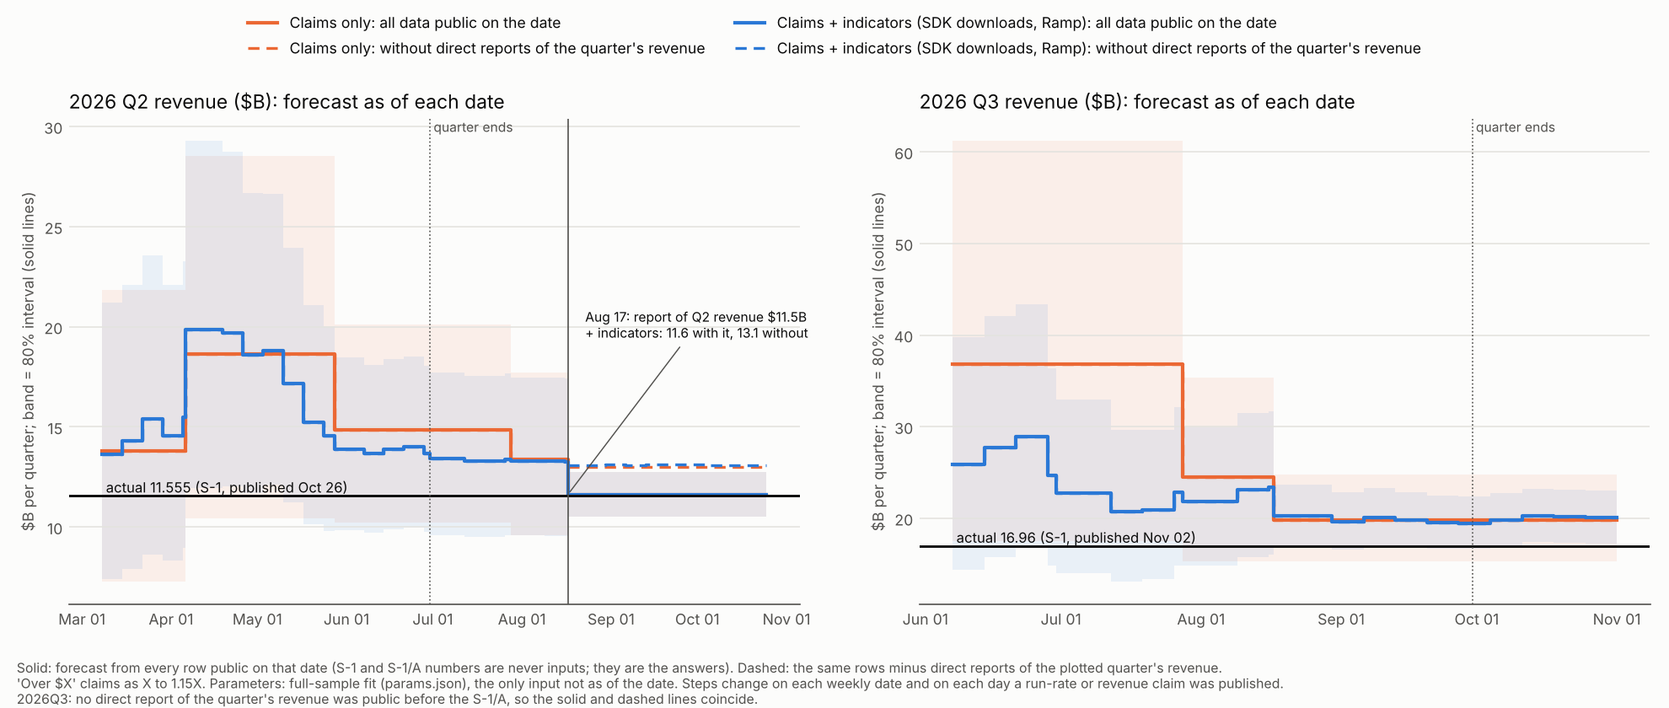
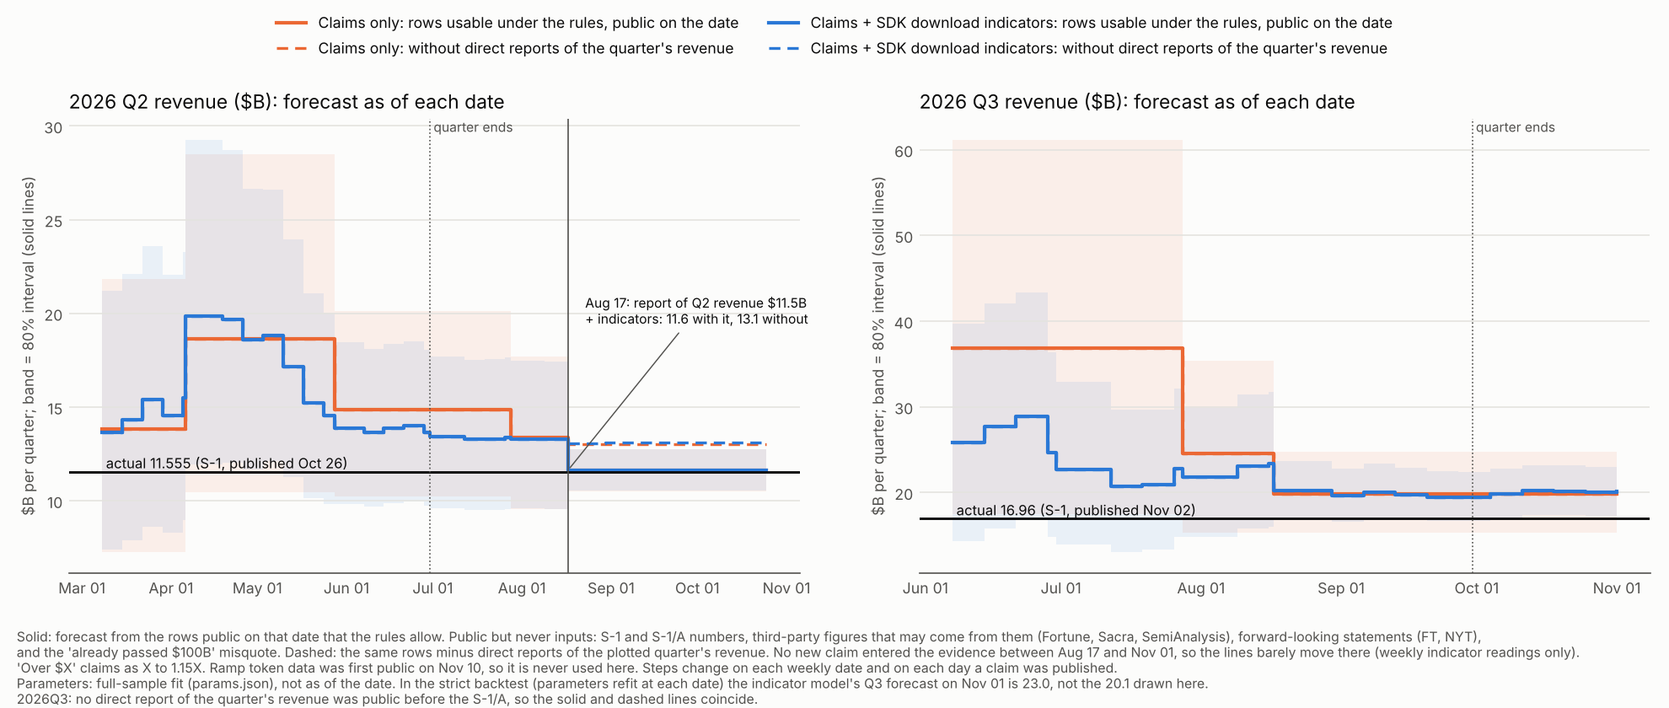
Independent review of sub-task P (verbatim), point-by-point response, corrections to P's report, chart legend and footnote fixed
Claude-Session: https://claude.ai/code/session_015VYmrmy85RRK3RPhYBL95Z

diff --git a/runrate_nowcast/plot_evolution_v2.py b/runrate_nowcast/plot_evolution_v2.py
@@ -20,7 +20,7 @@ from . import calibrate, config, data
 from .model import Model, period_key
 from .plot import BLUE, GRID, INK, INK2, ORANGE, SURFACE
 
-MODELS = [("claims", "Claims only", ORANGE), ("indicators", "Claims + indicators (SDK downloads, Ramp)", BLUE)]
+MODELS = [("claims", "Claims only", ORANGE), ("indicators", "Claims + SDK download indicators", BLUE)]
 QUARTERS = [("2026Q2", ("2026-04-01", "2026-06-30"), "2026-03-08", "2026-10-25", 11.555, "2026-10-26"),
             ("2026Q3", ("2026-07-01", "2026-09-30"), "2026-06-07", "2026-11-01", 16.96, "2026-11-02")]
 
@@ -122,15 +122,20 @@ def plot(evos: list, path: str, raw: pd.DataFrame):
         _style(ax)
     handles = []
     for key, label, color in MODELS:
-        handles.append(Line2D([], [], color=color, lw=2, label=f"{label}: all data public on the date"))
+        handles.append(Line2D([], [], color=color, lw=2, label=f"{label}: rows usable under the rules, public on the date"))
         handles.append(Line2D([], [], color=color, lw=1.6, ls=(0, (4, 2.5)),
                               label=f"{label}: without direct reports of the quarter's revenue"))
     fig.legend(handles=handles, loc="upper center", ncol=2, frameon=False, fontsize=8.5, labelcolor=INK,
                bbox_to_anchor=(0.5, 1.0))
-    foot = ["Solid: forecast from every row public on that date (S-1 and S-1/A numbers are never inputs; they are "
-            "the answers). Dashed: the same rows minus direct reports of the plotted quarter's revenue.",
-            "'Over $X' claims as X to 1.15X. Parameters: full-sample fit (params.json), the only input not as of "
-            "the date. Steps change on each weekly date and on each day a run-rate or revenue claim was published."]
+    foot = ["Solid: forecast from the rows public on that date that the rules allow. Public but never inputs: S-1 and "
+            "S-1/A numbers, third-party figures that may come from them (Fortune, Sacra, SemiAnalysis), forward-looking "
+            "statements (FT, NYT),",
+            "and the 'already passed $100B' misquote. Dashed: the same rows minus direct reports of the plotted "
+            "quarter's revenue. No new claim entered the evidence between Aug 17 and Nov 01, so the lines barely move there (weekly indicator readings only).",
+            "'Over $X' claims as X to 1.15X. Ramp token data was first public on Nov 10, so it is never used here. "
+            "Steps change on each weekly date and on each day a claim was published.",
+            "Parameters: full-sample fit (params.json), not as of the date. In the strict backtest (parameters refit "
+            "at each date) the indicator model's Q3 forecast on Nov 01 is 23.0, not the 20.1 drawn here."]
     foot += notes
     for i, t in enumerate(foot):
         fig.text(0.01, 0.006 + 0.022 * (len(foot) - 1 - i), t, fontsize=7.6, color=INK2)

diff --git a/runrate_nowcast/reviews/fable_review_2026-11-13_P_5702655.md b/runrate_nowcast/reviews/fable_review_2026-11-13_P_5702655.md
@@ -1,0 +1,254 @@
+# 子任务 P 独立审核（审核对象 5702655，对比 1ff145b）
+
+审核日期 2026-11-13。
+
+**结论先行**
+- **代码改动（三个默认关闭的开关）可以合并进 main。** 默认行为与 1ff145b 逐位一致，P1 的取数没有行级泄露，测试 54 个全过。
+- **报告结论需要修改后采信。** 主结论“P1 没有修掉 B 的高估”成立；但有一句事实错误、几处把同一份信息当成多次独立观测、两处归因说过头。
+- P1 不是一个可用的修复，合并不等于启用。
+
+**说明**
+- 分配给我的工作树停在 24d319c，不含子任务 P。我在自己的工作树里 `git checkout --detach 5702655` 后审核，没有改动任何仓库文件，没有 commit。
+- 我的脚本和日志都在 `/tmp/claude-0/-home-user-IterResearch/8dd0f9fe-3f5b-5ea2-b2a4-3686171a6c9f/scratchpad/`（`recalc.py`、`look.py`、`exp.py`、`bb.py`、`ident.py`、`evo.py`、`jobs1.log`、`pytest_isl.log`）。
+- 误差一律是 log(真实值 / 预测值)，负数表示预测偏高。
+
+---
+
+## 一、发现（按严重程度）
+
+### 严重
+
+**1. 报告 §6 的一句事实错误：“NYT 超过 1000 亿”那一行根本不在证据里**
+
+- 报告原文（`reports/indicator_slope_2026-11-13.md` 第 276–279 行）：有一条下限说法本身偏高，即 NYT 9/30 的“over $100B”，在 1.15X 规则下读作 [100, 115]；A 的高估因此是“H1 增长外推加上这条说法”。
+- 实际：`rr_2026_09_nyt100` 的 `include = 0`，备注写着 “EXCLUDED: misquote”；`fc_nyt_2026_09` 是前瞻说法，`USE_FORECASTS = False` 时也不进证据。
+- 我的核对：
+  - `data.select(vintage=2026-10-31)` 里 7 月以后的行只有三条：Funda 71、“超过 65”、Q2 初值 11.5。
+  - 把这一行从数据里删掉重跑，A 和 B 的预测逐位不变（A 10/31 为 111.966，A 9/30 为 97.694，B 10/31 为 159.031，B P1 为 150.945）。
+- 后果：A 在 10/31 预测 112（真实 81），纯粹是从 7 月中外推三个半月的结果，没有任何偏高的说法在起作用。这反而加强了“高估不只来自指标”的结论，但报告给的原因是错的。
+- 验证：已运行。
+
+**2. 一步预测的证据被重复计数；Ljung-Box 的 p 值是并列观测造成的**
+
+不用 S-1 的一组里，证据的到达情况是：
+- 2026-08-17 之后到 11-06 之前，没有任何新的说法进入证据。期间公开的 Sacra 70、SemiAnalysis 74、S-1 的全部数字、Fortune 的两条，都因 `filing` 标记被排除。
+- 11-06 才进来一条 WSJ“超过 80”。
+
+所以报告第 216–224 行那张表的 5 个数字，只对应两个信息状态：
+
+| 信息状态 | 被预测的数字 | B 原模型的 z |
+|---|---|---|
+| 说法停在 8/17 | Sacra 70（10/31）、Q3 收入（11/02）、SemiAnalysis 74（11/03） | −3.46、−2.38、−3.24 |
+| 另加 WSJ“超过 80” | 9/30 和 10/31 的 run-rate（11/10） | −3.20、−3.56 |
+
+- 10/26 的 6 个 S-1 季度数也是同一个状态，而且是对过去季度的回溯。
+- “5 月以后 15 个数字”实际只有 4–5 次独立的前瞻观测：5/27、7/27、8/16、10 月底、11/09。
+- 报告在第 192–194 行提到了 10/26 的并列，并说统计量“只作描述”。但开头的结论 2 仍然引用 Ljung-Box p 从 0.017 到 0.046，说序列相关“变弱但仍在”，也没有提 10/31 到 11/10 这一组。
+- 我把同一时点的观测合并成一个后重算：B 原模型 p = 0.30（相邻相关 0.43），P1 p = 0.35。不显著。
+- 不用 S-1 的一组里，10 月底以后“每个数字都偏高 2.0–3.6 个标准差”主要是规则造成的：模型被禁止看到任何纠正信息，谈不上“更新也纠正不了”。
+
+真正能检验“更新后偏差是否还在”的是用已公开 S-1 的一组，报告没有把它放进结论。B 的 z 值（`onestep_B_*_pub.csv`）：
+
+| 数字 | 原模型 | P1 |
+|---|---|---|
+| Sacra 70 | −3.31 | −2.81 |
+| Q3 收入 | −2.36 | −1.59 |
+| SemiAnalysis 74 | −1.06 | −0.81 |
+| 9/30 run-rate | −1.11 | −0.91 |
+| 10/31 run-rate | −1.61 | −0.89 |
+
+- 每次更新后仍然偏高，但幅度在缩小。
+- 这一组里 B 的 Ljung-Box p 是 0.67（原模型）和 0.93（P1），没有序列相关的证据。
+- 两组里，5 月以后 8 个前瞻数字，B 的原模型和 P1 都是 8 个全部偏高，方向没有例外。所以“P1 没有修掉 B 的高估”成立，只是证据强度远低于报告的写法。
+- 验证：从 CSV 重算，并读了 `data/observations.csv`。
+
+### 中等
+
+**3. “P1 在 G、R 上引入了序列相关”说过头了**
+
+- 这个说法只在期末当天时点的 13 个目标上成立：G 的相邻相关 +0.57，R 为 +0.49，n = 13 时标准误约 0.28。
+- 其他地方都看不到：
+  - 公布前一天时点：G +0.09，R −0.23。
+  - 一步预测（报告自己的表）：G P1 相邻相关 −0.06、p = 0.85；R P1 −0.02、p = 0.34。
+- 更合理的解释是 P1 让指标基本不起作用，G 和 R 退回到只用说法的 A。期末当天时点上，各模型误差与 A 的误差的相关系数：
+
+| 模型 | 原模型 | P1 |
+|---|---|---|
+| G | 0.19 | 0.81 |
+| R | 0.17 | 0.92 |
+
+- R 在 P1 下与 A 的平均绝对差只有 0.06；早期时点 R 的 β 被估到 0.15。
+- 所以 `----+++------` 是 A 本来就有的增长外推模式（A 是 `--+-+++------`），不是 P1 新造出来的。
+- G 的“3 个偏高变 10 个偏高”按个数属实，但 P1 下 13 个误差里 10 个绝对值小于 0.1，平均误差 −0.018，好几个只是 −0.01 到 −0.04 的翻号。
+- 验证：从 CSV 重算。
+
+**4. OpenCode“误差减半”来自一个目标，报告给的机制不成立**
+
+- 期末当天、不用 S-1：平均绝对误差 1.200 降到 0.667，合计减少 6.93，其中 5.99（86%）来自 `rev_2025fy` 一个目标（原模型预测 2777，P1 预测 6.97，真实 4.59）。
+- 去掉它是 0.767 对 0.688；中位数 0.381 对 0.377，没有变化。
+- 报告说改善来自“10 月学到的斜率约 +0.02/周，后期时点的过程噪声不再爆炸”。对不上：
+  - `rev_2025fy` 的时点是 2025-12-31，那时斜率是 0.010 ± 0.0115。
+  - 9/30 时两个版本的 sigma_g 都是 0.76–0.80；10/31 时两个版本都约 0.01。
+- P1 下仍有 2026 Q1 预测 82、Q2 预测 118.5。“仍不可用”这一句是对的。
+- 验证：从 CSV 重算。
+
+**5. B 的配对改善（0.012，90% 区间 0.002 到 0.021）不稳健**
+
+- 改善集中在下半年共享同一份信息的几个目标上：`rr_2026_10_s1a` −0.052，`rr_2026_09_s1a` −0.036，`rev_2026q3` −0.021。
+- 把同一时点和下半年那一组当成一个整体做 bootstrap，区间跨 0：
+  - 期末当天：(−0.022, +0.001)；
+  - 公布前一天：(−0.015, +0.008)。
+- 它还受优化起点影响（见第 6 条）。
+- “改善是真的，但很小”应改为“很小，且与 0 无法区分”。
+- 验证：已运行。
+
+**6. 参数通道：影响与 P1 的效果同量级，“各版本都受影响所以比较公平”不成立**
+
+- 通道属实：`backtest.py` 的 refit 用 `calibrate.load_params()` 的全样本值作 `fit_process_noise` 的起点，估过程噪声时指标参数也是全样本拟合值。
+- 我把起点换成 `backtest.unfitted_params()` 重跑（B，不用 S-1）：
+
+| 目标（时点） | 原模型：全样本起点 → 目录先验起点 | P1：全样本起点 → 目录先验起点 |
+|---|---|---|
+| 10/31 run-rate（公布前一天） | 119.98 → 107.03 | 111.34 → 110.86 |
+| 10/31 run-rate（期末当天） | 159.03 → 161.34 | 150.95 → 151.16 |
+| 5 月 run-rate（公布前一天） | 64.33 → 67.08 | 63.08 → 64.88 |
+
+- 原模型对起点的敏感度最大到 12%，P1 约 0.4%–3%。两者受影响的程度不同。
+- 第一行里换起点后原模型（107.0）反而比 P1（110.9）更准。报告开头举的例子“120 对 111”方向反过来了。
+- 对主结论没有影响：两种起点下 B 都大幅偏高。
+- G 的 P1 和 R 的 P1 基本不受影响（G 88.83 对 88.78，R 12.613 两次相同）。
+- 验证：已运行，`jobs1.log`。
+
+**7. 报告 §8 第 3 条（“协调者的 0.79 没有复现”）不实**
+
+- 执行者自己的 `indicator_slope_summary_2026-11-13.csv` 里，B 原模型、期末当天、不用 S-1 的 `acf1_pearson` 就是 0.789。
+- 两个数只是估计量不同：Pearson 0.789，标准估计量 0.589。
+- 验证：从 CSV 读取。
+
+**8. 新图基本如实，但还有三处会误导**
+
+属实的部分：
+- 我重跑了 7 个时点，与 CSV 一致（差小于 1e-14）。
+- 删掉每个时点之后发布的所有行，结果逐位不变。
+- 8/17 的 Q2：加指标的模型 11.63（不含直接报道 13.09），只用说法 11.61（13.02）。属实。
+
+仍会误导的部分：
+- **图例“all data public on the date”不准确。** 到 11/01 已公开但没进证据的有 10 多行：S-1 的季度数、Fortune 的 Q1 和 Q2（9/30）、Sacra 70（10/31）、FT 的“年底 100–120”、NYT 的前瞻说法。脚注只说了 S-1。
+- **参数是全样本的（脚注已写明），画出来的不是严格回测里的 B。** 图上 11/01 的 Q3 是 20.1，严格回测的 B 是 22.97，图让加指标的模型看起来更准。
+- **图例写“SDK downloads, Ramp”，但 Ramp token spend 最早 11/10 才公开**，图里从没用到。
+
+另外，Q3 一栏两个模型从 8/17 到 11/01 一直在 19.8–20.2（真实 16.96）。这是如实的，但图没有标出这 11 周里没有任何新说法进入证据。
+
+- 验证：已运行，`evo.py`。
+
+### 轻微
+
+- **“大多数时点还没有更早的真实值公开”与自己的 CSV 矛盾。** `n_corrected` 是 11/13（期末当天）和 14/15（公布前一天）。事后校正的数字本身（0.202 → 0.191，0.139 → 0.160）核对无误。
+- **P1″ 的描述自相矛盾。** 报告写“处处在 ±0.016 以内”，但 R 期末当天是 +0.034（区间 0.005 到 0.068），同一句后面又写“最多 +0.034”。
+- **“11/13 偏高”的幅度。** B 期末当天的 11 个偏高目标里，5 个绝对值小于 0.1（2025 年的 4 个和 3 月的 run-rate），其中 2025 年那几个 A 也基本同号。实质性的高估是 5 月以后的 5 个目标（−0.14 到 −0.68），后 3 个共享信息。
+- **滤波器自身新息的检查没有检出力。** 不用 S-1 时只有 10 个点，没有下半年的数字，参数还是最后一次拟合的。OC 原模型 p = 0.051，“没有低于 0.05”只是勉强成立。
+- **仓库膨胀。** 90 个 `params_*.json` 约 30 万行，建议不进 main 或压缩。
+- **基线复现测试的前提。** `forecast_interval_*_iv115_*` 由 36e45e4 提交，早于 1ff145b，前提成立。
+
+---
+
+## 二、逐项回答
+
+**1. 是否按登记执行：基本是**
+
+- `DATA_PLAN.md` 自 1ff145b 之后没有改动。
+- P1 的取值（先验标准差 0.01/周，过程噪声 0.001/周）与登记一致，实现也对：`model.py` 里每天加 斜率/7，斜率的方差每天 0.001²/7。
+- 90 个回测全部存在；每个版本的目标集相同（15 和 13 个）。
+- 单位的解读可以接受，标签建议调整：
+  - 登记把目录里的 drift（每 √天）误写成“每周”。执行者的主版本 P1′ 取 0.02/√天（约 5.3%/周），按字面的 0.02/周作为敏感性版本。
+  - 两个版本在第一次提交（5ed8c90，16:38）里就都定义了，早于任何 B 的输出（16:46）。不是看了结果再挑的。
+  - 两个版本都进了主表，结论不因选哪个而变：B 期末当天 10/13 偏高对 12/13 偏高。
+  - 严格说，字面版本才是登记的那个，主版本是解读。建议把标签对调或写成中性。字面版本没有跑用 S-1 的一组。
+- 报告没有标出的一处解读：登记写“a 的噪声沿用目录里的 drift”，实际运行中 drift 仍按时点重估。秋季 SDK 的 drift 被估到 0.012，约为目录值的 4 倍，会和斜率争着吸收超额增长，是 P1 学不动斜率的原因之一。
+- 登记本身是看过原模型结果后写的（登记里已有“85% 偏高”等数字）。P1 的超参数是否在跑之前定的，我无法从仓库验证，只能确认提交顺序没有矛盾。
+- 验证：读代码和 git 历史。
+
+**2. 默认行为不变：是**
+
+- 我自己用 `git show 1ff145b:model.py` 和 `calibrate.py` 加载旧代码对比：
+  - E、R、B、OC 四个数据框 × 两种下限规则：平滑状态、协方差、似然逐位相等。
+  - B 和 R 的 `fit_indicators`、`fit_process_noise` 输出完全相等。
+- 我重跑的 B 原模型与 CSV 一致：119.975、159.031。
+- 测试确实检验了这一点：`test_default_reproduces_committed_model` 有 10 个用例，`test_default_fit_indicators_reproduces_committed` 只测了 G。
+- 不足：git 历史不可用时，这些测试会静默跳过。
+- 验证：已运行，`ident.py`。
+
+**3. 泄露**
+
+- 行级没有发现。我对带 refit 的 P1 做了黑盒测试，覆盖三个预测：
+  - B，用已公开 S-1，公布前一天，10/31 run-rate；
+  - B，不用 S-1，期末当天，Q3 收入；
+  - OC，不用 S-1，期末当天，5 月 run-rate。
+- 每个预测做两种改动：删掉预测日之后发布的所有行；把这些行的数值随机打乱并把答案乘 3。均值和标准差逐位不变。
+- 一步预测脚本取“不晚于预测日的最近一次拟合”的参数，逻辑正确（读代码）。
+- 参数通道见第 6 条。
+- 上一轮审核列出的事后因素（事后测的指标、信源等级、被剔除的误引）对 P 同样适用，P 没有新增。
+- 验证：已运行，`bb.py`。
+
+**4. 从原始 CSV 重算：全部对得上**
+
+- 90 个 `bt_*.csv`：log 误差、80% 覆盖。
+- 汇总表 90 行：均值、偏高比例、平均绝对误差、符号串、相邻相关。
+- 20 行 P1 配对比较：均值、改善和变差的目标数、区间（我换了随机种子，差在 0.01 以内）。
+- 45 个一步预测文件：z、均值、相邻相关、Ljung-Box p、5 月以后的均值。
+- §6 的参数表、各信号隐含 run-rate 的中位数（111 / 106、88 / 79）。
+- 对不上的只有文字：第 7 条和上面“轻微”里的前两条。
+- 验证：已运行，`recalc.py`。
+
+**5. 结论是否站得住**
+
+- **“P1 没有修掉 B 的持续高估”：成立。** 但应按第 2、5 条降低证据强度的表述。
+- **“P1 在 G、R 上引入了序列相关”：证据不足。** 应改为“期末当天时点上 G、R 退回到 A 的误差模式”，见第 3 条。
+- **“部分高估不是指标造成的”：成立，而且说轻了。** 按 log 误差算，A 的高估占 B 的比例：
+  - 9/30 run-rate：64%（−0.319 对 −0.495）；
+  - Q3 收入：70%（−0.198 对 −0.283）；
+  - 10/31 run-rate：48%（−0.324 对 −0.675）。
+  - 10 月里没有新说法，A 从 98 到 112，B 从 116 到 159，这一段的差距才是 SDK 造成的。
+  - 报告给的原因之一（NYT 那条）是错的，见第 1 条。
+- **用户提示的问题属实。** 10/26 之后的若干个一步预测目标，在不用 S-1 的一组里来自同一份信息，不能当独立观测计数，见第 2 条。
+
+**6. 新图**：见第 8 条。
+
+**7. 测试质量：机制测得够，有缺口**
+
+我跑了 `tests/test_indicator_slope.py`：54 个通过，用时 3 分 20 秒。
+
+测到的：
+- 默认逐位一致；
+- 斜率的布局、转移和先验；
+- 无噪声合成数据上学到 0.02/周；
+- P1′ 和 P1″ 的开关确实传到 refit；
+- P1 的泄露测试 7 例；
+- 序列相关的辅助函数。
+
+缺口：
+- 带 refit 的泄露测试只有 G。B 和 OC 是不带 refit 的，而参数泄露恰恰只可能出在 refit 路径上（我补跑了，通过）。
+- `assert mu_b != mu0` 没有信息量。
+- 一步预测脚本的参数选取规则对泄露敏感，却没有测试。
+- 没有测带斜率状态时的平滑，也没有测斜率与 `breaks`、指标族因子同时存在的情况。
+- `test_reports_*` 检查的是已提交的 CSV，不是代码，文件缺失时静默跳过。
+- 和上一轮一样，没有任何测试检查预测是否合理。
+
+**8. 其他**：`model.py`、`calibrate.py`、`config.py` 的改动里没有发现代码错误。
+
+---
+
+## 三、建议的处理
+
+**合并时**
+- 三个开关保持 None。
+- README 不得把 P1 写成“修复”。
+
+**报告需要改的**
+1. 删掉 §6 关于 NYT [100, 115] 的那句，改为“8/17 之后没有新说法进入证据，A 的高估是纯增长外推”。
+2. 一步预测按信息状态计数。把用已公开 S-1 的那组序列写进结论，去掉对 Ljung-Box p 值的引用，或改用合并并列后的值（0.30 和 0.35）。
+3. G、R 的“引入序列相关”改为“退回到 A 的误差模式”。
+4. OC 的“减半”注明 86% 来自 `rev_2025fy` 一个目标，删掉“后期斜率吸收”的机制说法。
+5. B 的配对改善注明按信息状态分组后区间跨 0，且受优化起点影响；删掉“比较是公平的”。
+6. 更正 §8 第 3 条、事后校正那句和 P1″ 那句。
+7. 图例改为“按规则可用的已公开数据”，脚注列出被排除的已公开行。

diff --git a/runrate_nowcast/reports/indicator_slope_2026-11-13.md b/runrate_nowcast/reports/indicator_slope_2026-11-13.md
@@ -1,5 +1,29 @@
 # Sub-task P: can the filter learn the indicators' excess growth? And the evolution chart (2026-11-13)
 
+> **审核更正（2026-11-13，依据独立审核 `reviews/fable_review_2026-11-13_P_5702655.md`，协调者已重算第 1、2（合并后的 Ljung-Box）、3、4、6、7 条；第 5 条的分组 bootstrap 是审核者的计算，协调者未重算）。下文正文保留执行者原文；与以下更正冲突处，以更正为准。**
+>
+> 1. **§6 关于 NYT “over $100B” 的那句是错的。** `rr_2026_09_nyt100` 的 `include = 0`（因误引被排除），`fc_nyt_2026_09` 是前瞻说法，`USE_FORECASTS = False` 时也不进证据。2026-08-17 之后到 11-06（WSJ“超过 80”）之前，不用 S-1 的证据里没有任何新说法。A 在 10/31 预测 112（真实 81）完全是增长外推。
+> 2. **一步预测不能按 15 个、8 个独立观测来数。** 不用 S-1 时，10/31–11/03 的 3 个数字共享“停在 8/17”的信息，11/10 的 2 个数字共享“另加 WSJ”的信息，10/26 的 6 个 S-1 数共享同一状态。把同一时点合并后，B 的 Ljung-Box p 为 0.30（原模型）和 0.35（P1），不显著。开头结论 2 引用的 0.017 → 0.046 不应再用。用已公开 S-1 的一组（能真正检验“更新后是否还偏”）：B 每次更新后仍偏高，但幅度在缩小（z 从 −3.3 到 −1.1/−1.6），Ljung-Box p 0.67/0.93。结论“P1 没有修掉 B 的高估”成立，但证据强度远低于原文写法。
+> 3. **“P1 在 G、R 上引入了序列相关”应改为“期末时点上 G、R 退回到只用说法的 A 的误差模式”。** 与 A 的误差相关：G 0.19 → 0.81，R 0.17 → 0.92（协调者已重算）。其他时点和一步预测里没有这种相关。
+> 4. **OC“误差减半”的 86% 来自 `rev_2025fy` 一个目标**（原模型预测 2777，P1 6.97，真实 4.59；去掉它是 0.767 对 0.688，协调者已重算）。“后期斜率吸收”的机制说法不成立，删除。
+> 5. **B 的配对改善（0.012）按信息状态分组 bootstrap 后区间跨 0**，且受优化起点影响。应读作“很小，与 0 无法区分”。
+> 6. **参数通道不能说“各版本都受影响所以公平”。** 把起点换成 `unfitted_params()` 后，原模型对 10/31 run-rate 的预测从 120 变成 107，P1 从 111.3 变成 110.9。开头“120 对 111”的例子方向随之反转。
+> 7. **§8 第 3 条不实。** 0.79 是 Pearson 估计量（本报告 summary CSV 的 `acf1_pearson` = 0.789），0.59 是标准估计量，两者都对。
+> 8. **其他：**
+>    - “大多数时点还没有更早的真实值公开”与 CSV 矛盾：`n_corrected` 为 11/13 和 14/15。
+>    - P1″ 并非处处在 ±0.016 内：R 期末时点 +0.034。
+>    - P1′ 的标签：按字面登记的是 0.02/周（本文的 “P1′ wk”），0.02/√天是执行者的解读。
+>    - 登记写“a 的噪声沿用目录 drift”，实际仍按时点重估。秋季 SDK drift 被估到目录值约 4 倍，会和斜率争着吸收超额增长。
+> 9. **新图已按审核意见修正**（`forecast_evolution_v2_2026-11-13.png`）：
+>    - 图例改为“按规则可用的已公开数据”；
+>    - 脚注列出已公开但不作输入的行；
+>    - 写明 8/17–11/01 没有新说法进入证据；
+>    - Ramp 数据 11/10 才公开、图中未用；
+>    - 图用全样本参数，严格回测里 11/01 的 Q3 预测是 23.0，不是图上的 20.1。
+>
+> **P1 不是可用的修复，三个开关保持默认 None。**
+
+
 Pre-registered in DATA_PLAN.md (子任务 P, commit 1ff145b) before any run. Errors are log(actual / forecast):
 **negative = forecast too high**. All runs: lower claims as [X, 1.15X] (iv115), parameters refit at every vintage
 (process noise, then beta / drift / obs_sd of every indicator), crossing position profiled, `check_no_leak` on plus a

diff --git a/runrate_nowcast/reviews/response_2026-11-13_P.md b/runrate_nowcast/reviews/response_2026-11-13_P.md
@@ -1,0 +1,18 @@
+# 对子任务 P 独立审核的逐条回应（协调者，2026-11-13）
+
+审核原文：`fable_review_2026-11-13_P_5702655.md`（原样存档，未改动）。下面“已核实”指我自己重算或读数据确认过。
+
+| # | 审核发现 | 我的判断 | 处理 |
+|---|---|---|---|
+| 1 | NYT “over $100B” 不在证据里 | **接受，已核实。** `rr_2026_09_nyt100` 的 `include = 0`。`data.select(vintage=2026-10-31)` 里 7 月以后只有 Funda 71、“超过 65”、Q2 初值 11.5 三条。**我在给用户的上一条消息里也重复了这个错误说法**（说这条转述推高了预测），一并更正。 | 报告顶部加更正。A 的高估是纯增长外推，这条留给子任务 Q。 |
+| 2 | 一步预测重复计数；Ljung-Box p 是并列造成的 | **接受，已核实。** 按时点合并后 B 的 p 为 0.296（原模型）和 0.351（P1），20 个数字只对应 13 个信息状态。我在复核时也发现了同一问题，之前对用户说的“8 次全低于预测，p = 0.008”同样夸大了证据。 | 报告顶部加更正。今后一步预测按信息状态计数，并单列用已公开 S-1 的一组。 |
+| 3 | G、R “引入序列相关”说过头 | **接受，已核实。** 与 A 的误差相关：G 0.19 → 0.81，R 0.17 → 0.92。 | 报告顶部加更正。 |
+| 4 | OC “减半”来自一个目标 | **接受，已核实。** 绝对误差合计减少 6.93，其中 5.99（86%）来自 `rev_2025fy`；去掉它是 0.767 对 0.688。 | 报告顶部加更正。 |
+| 5 | B 的配对改善不稳健 | **接受**，分组 bootstrap 未重算。改善量本身很小（0.012），且与第 6 条的起点敏感度同量级，结论不依赖这个区间。 | 报告顶部加更正。 |
+| 6 | 参数通道影响与 P1 同量级 | **接受。** 执行者自己的报告 §8 也得到 120 → 107。 | 子任务 Q 修这个通道：refit 起点改为目录先验，不读 `params.json`。 |
+| 7 | “0.79 没有复现”不实 | **接受，已核实。** summary CSV 的 `acf1_pearson` = 0.789。 | 报告顶部加更正。 |
+| 8 | 新图三处误导 | **接受。** | **已修：** 改了图例；脚注列出已公开但不作输入的行；写明 8/17–11/01 没有新说法；去掉 Ramp；注明严格回测里 11/01 的 Q3 是 23.0，不是图上的 20.1。图已重画，CSV 未变。 |
+| 轻微 | `n_corrected` 矛盾、P1″ 描述、P1′ 标签、drift 仍重估、仓库膨胀、新息检验无力 | **接受。** | 前四条已写进报告顶部的更正。`params_*.json` 不进 main。 |
+| 测试缺口 | refit 路径的泄露测试只覆盖 G；一步预测的参数选取规则没有测试；没有合理性测试 | **接受。** 我补跑了 B（两种时点）和 OC（期末时点）带 refit 的黑盒泄露检查，均逐位不变。 | 子任务 Q 把带 refit 的 B、OC 泄露测试和合理性测试写进测试集。 |
+
+**是否合并进 main：暂不合并。** 审核认为三个开关可以合并。但按此前对用户的承诺，P 只修了次要问题，不单独进 main。等修主因（增长外推）的子任务 Q 完成并通过独立审核后，再一起合并。合并时开关保持 None，README 不把 P1 写成修复。
